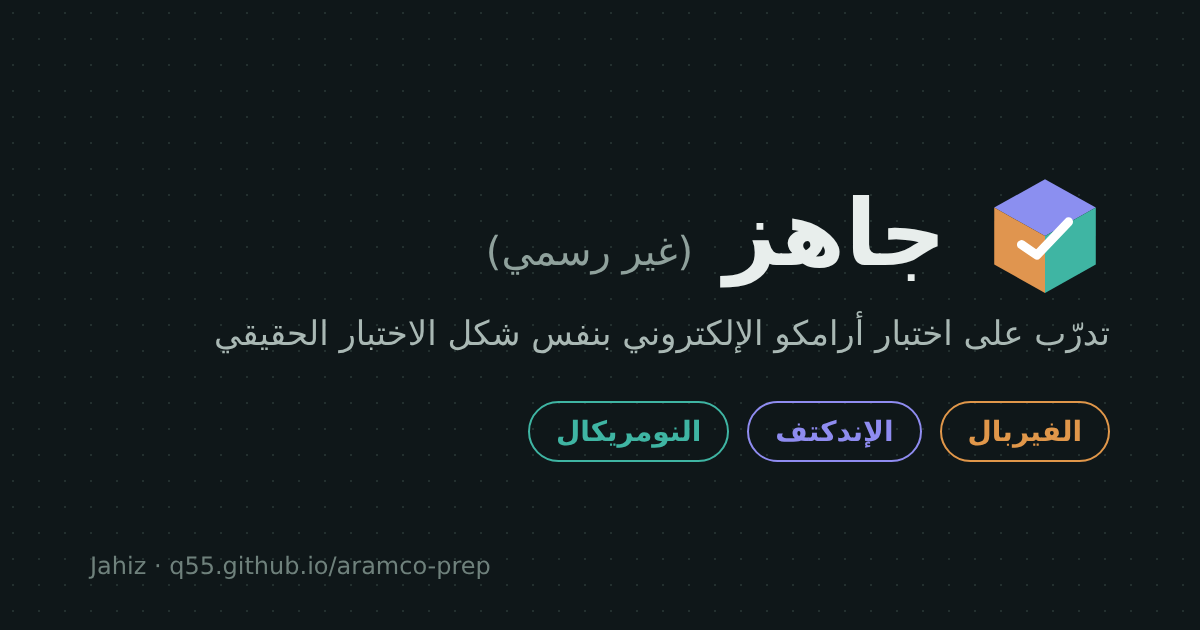
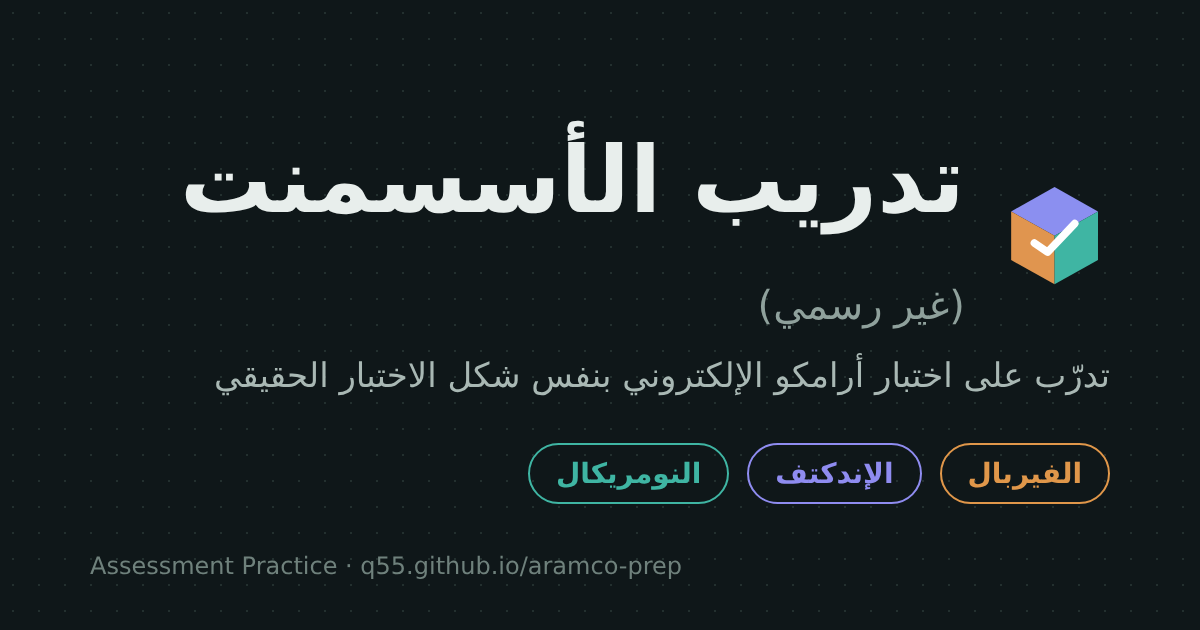
Rename to Assessment Practice; centered hero title
Claude-Session: https://claude.ai/code/session_0176uqSCUaVaCzhfna7AKwtE

diff --git a/index.html b/index.html
@@ -2,11 +2,11 @@
 <html lang="en">
 <head>
 <script src="firebase-config.js"></script>
-<meta name="description" content="تدرّب على اختبار أرامكو الإلكتروني (الفيربال، الإندكتف، النومريكال) بنفس شكل الاختبار الحقيقي. موقع غير رسمي للاستفادة التعليمية."><meta property="og:type" content="website"><meta property="og:url" content="https://q55.github.io/aramco-prep/"><meta property="og:title" content="جاهز | تدريب على اختبار أرامكو (غير رسمي)"><meta property="og:description" content="تدرّب على الاختبار الإلكتروني بنفس شكل الاختبار الحقيقي: الفيربال، الإندكتف، النومريكال."><meta property="og:image" content="https://q55.github.io/aramco-prep/og.png"><meta property="og:image:width" content="1200"><meta property="og:image:height" content="630"><meta name="twitter:card" content="summary_large_image">
+<meta name="description" content="تدرّب على اختبار أرامكو الإلكتروني (الفيربال، الإندكتف، النومريكال) بنفس شكل الاختبار الحقيقي. موقع غير رسمي للاستفادة التعليمية."><meta property="og:type" content="website"><meta property="og:url" content="https://q55.github.io/aramco-prep/"><meta property="og:title" content="تدريب الأسسمنت (غير رسمي)"><meta property="og:description" content="تدرّب على الاختبار الإلكتروني بنفس شكل الاختبار الحقيقي: الفيربال، الإندكتف، النومريكال."><meta property="og:image" content="https://q55.github.io/aramco-prep/og.png"><meta property="og:image:width" content="1200"><meta property="og:image:height" content="630"><meta name="twitter:card" content="summary_large_image">
 <meta charset="utf-8">
 <meta name="viewport" content="width=device-width, initial-scale=1">
-<title>جاهز | تدريب على اختبار أرامكو (غير رسمي)</title>
-<meta name="apple-mobile-web-app-capable" content="yes"><meta name="apple-mobile-web-app-title" content="جاهز"><meta name="theme-color" content="#0e6e64"><link rel="apple-touch-icon" href="icon-180.png"><link rel="icon" href="icon-180.png">
+<title>تدريب الأسسمنت (غير رسمي)</title>
+<meta name="apple-mobile-web-app-capable" content="yes"><meta name="apple-mobile-web-app-title" content="تدريب الأسسمنت"><meta name="theme-color" content="#0e6e64"><link rel="apple-touch-icon" href="icon-180.png"><link rel="icon" href="icon-180.png">
 <link rel="preconnect" href="https://fonts.googleapis.com"><link rel="preconnect" href="https://fonts.gstatic.com" crossorigin>
 <link href="https://fonts.googleapis.com/css2?family=Instrument+Sans:wght@400;500;600&family=IBM+Plex+Sans+Arabic:wght@400;600&display=swap" rel="stylesheet">
 <script>/* Chart.js 4.4.1, MIT */
@@ -433,10 +433,18 @@ body[data-screen="test"] .foot,body[data-screen="end"] .foot,body[data-screen="g
 @keyframes spin{from{transform:rotateX(-28deg) rotateY(-40deg)}to{transform:rotateX(-28deg) rotateY(320deg)}}
 @media(prefers-reduced-motion:reduce){.cube{animation:none}}
 @media(max-width:600px){.hero{grid-template-columns:1fr;justify-items:start}.cubewrap{--s:72px;order:-1;margin:0 0 4px}.cf{font-size:9px;gap:4px;border-radius:5px}.cf .sic{width:24px;height:24px;padding:4px}.hlead{font-size:16px}}
+
+/* centered hero */
+.hero{grid-template-columns:1fr!important;justify-items:center;text-align:center;padding:72px 0 80px!important;margin-bottom:40px!important;gap:28px!important}
+.hero .htext{display:flex;flex-direction:column;align-items:center}
+.hero .cubewrap{order:-1;margin:0!important}
+#guidePg h1.htitle{font-size:clamp(40px,9vw,72px)!important;line-height:1.15;margin:0!important;display:flex;flex-direction:column;align-items:center;gap:10px}
+#guidePg h1.htitle .hun{font-size:clamp(16px,3.4vw,22px);letter-spacing:0}
+@media(max-width:600px){.hero{padding:44px 0 52px!important}.hero .cubewrap{--s:80px;margin:0 auto!important}}
 </style>
 </head>
 <body>
-<header class="top"><button class="brand" onclick="showPage('guidePg')"><svg class="logo" viewBox="0 0 32 32" aria-hidden="true"><path d="M16 2.5 28.5 9.5 16 16.5 3.5 9.5Z" fill="var(--ind)"/><path d="M3.5 9.5 16 16.5V30.5L3.5 23.5Z" fill="var(--ver)"/><path d="M28.5 9.5 16 16.5V30.5L28.5 23.5Z" fill="var(--num)"/><path d="M10.2 18.6 14 21.2 21.8 13" fill="none" stroke="#fff" stroke-width="2.2" stroke-linecap="round" stroke-linejoin="round" opacity=".95"/></svg><span id="testName">Jahiz</span></button><nav class="toplinks" id="topnav"><button onclick="showPage('guidePg')" data-p="guidePg"><svg viewBox="0 0 24 24" aria-hidden="true" fill="none" stroke="currentColor" stroke-width="1.8" stroke-linejoin="round" stroke-linecap="round"><path d="M3 5.5c2.6-1 5.6-1 9 1 3.4-2 6.4-2 9-1v13c-2.6-1-5.6-1-9 1-3.4-2-6.4-2-9-1z"/><path d="M12 6.5v13"/></svg><span data-i18n="Guide">Guide</span></button><button onclick="goHome()" data-p="home"><svg viewBox="0 0 24 24" aria-hidden="true" fill="none" stroke="currentColor" stroke-width="1.8" stroke-linejoin="round" stroke-linecap="round"><path d="M4 20l1.2-4.2L15.8 5.2a2 2 0 0 1 2.9 0l.1.1a2 2 0 0 1 0 2.9L8.2 18.8z"/><path d="M14 7l3 3"/></svg><span data-i18n="Practice">Practice</span></button></nav><div class="qtog"><button id="lgBtn" onclick="toggleLang()">English</button><button id="thBtn" onclick="toggleTheme()" aria-label="Switch to light mode"></button></div></header>
+<header class="top"><button class="brand" onclick="showPage('guidePg')"><svg class="logo" viewBox="0 0 32 32" aria-hidden="true"><path d="M16 2.5 28.5 9.5 16 16.5 3.5 9.5Z" fill="var(--ind)"/><path d="M3.5 9.5 16 16.5V30.5L3.5 23.5Z" fill="var(--ver)"/><path d="M28.5 9.5 16 16.5V30.5L28.5 23.5Z" fill="var(--num)"/><path d="M10.2 18.6 14 21.2 21.8 13" fill="none" stroke="#fff" stroke-width="2.2" stroke-linecap="round" stroke-linejoin="round" opacity=".95"/></svg><span id="testName">Assessment Practice</span></button><nav class="toplinks" id="topnav"><button onclick="showPage('guidePg')" data-p="guidePg"><svg viewBox="0 0 24 24" aria-hidden="true" fill="none" stroke="currentColor" stroke-width="1.8" stroke-linejoin="round" stroke-linecap="round"><path d="M3 5.5c2.6-1 5.6-1 9 1 3.4-2 6.4-2 9-1v13c-2.6-1-5.6-1-9 1-3.4-2-6.4-2-9-1z"/><path d="M12 6.5v13"/></svg><span data-i18n="Guide">Guide</span></button><button onclick="goHome()" data-p="home"><svg viewBox="0 0 24 24" aria-hidden="true" fill="none" stroke="currentColor" stroke-width="1.8" stroke-linejoin="round" stroke-linecap="round"><path d="M4 20l1.2-4.2L15.8 5.2a2 2 0 0 1 2.9 0l.1.1a2 2 0 0 1 0 2.9L8.2 18.8z"/><path d="M14 7l3 3"/></svg><span data-i18n="Practice">Practice</span></button></nav><div class="qtog"><button id="lgBtn" onclick="toggleLang()">English</button><button id="thBtn" onclick="toggleTheme()" aria-label="Switch to light mode"></button></div></header>
 
 <div id="home" class="page wide">
 <div class="intro"><h1 data-i18n="Welcome.">Welcome.</h1><p class="sub" data-i18n="Pick a section and practise in the real test layout. Everything you do is saved.">x</p></div>
@@ -445,7 +453,7 @@ body[data-screen="test"] .foot,body[data-screen="end"] .foot,body[data-screen="g
 <p class="sync"></p>
 </div>
 
-<div id="guidePg" class="page langbox" style="display:none"><svg id="treeSvg" aria-hidden="true"></svg><section class="hero" data-lang="ar"><div class="htext"><h1 class="htitle">جاهز <span class="hun">(غير رسمي)</span></h1><p class="hlead">تدرّب على اختبار أرامكو الإلكتروني بنفس شكل الاختبار الحقيقي: الفيربال، والإندكتف، والنومريكال.</p><p class="hsub">تم عمل الموقع للاستفادة التعليمية.</p></div><div class="cubewrap" aria-hidden="true"><div class="cube"><div class="cf cf-f c-ver"><svg class="sic" viewBox="0 0 24 24" aria-hidden="true" fill="none" stroke="currentColor" stroke-width="1.8" stroke-linejoin="round" stroke-linecap="round"><rect x="5" y="3" width="14" height="18" rx="2"/><path d="M8.5 8h7M8.5 12h7M8.5 16h4"/></svg><span>الفيربال</span></div><div class="cf cf-r c-ind"><svg class="sic" viewBox="0 0 24 24" aria-hidden="true" fill="none" stroke="currentColor" stroke-width="1.8" stroke-linejoin="round" stroke-linecap="round"><rect x="3" y="3" width="7.5" height="7.5" rx="1.2"/><circle cx="17.25" cy="6.75" r="3.75"/><path d="M6.75 13.5l3.75 7h-7.5z"/><rect x="13.5" y="13.5" width="7.5" height="7.5" rx="1.2" stroke-dasharray="2 2"/></svg><span>الإندكتف</span></div><div class="cf cf-t c-num"><svg class="sic" viewBox="0 0 24 24" aria-hidden="true" fill="none" stroke="currentColor" stroke-width="1.8" stroke-linejoin="round" stroke-linecap="round"><path d="M3.5 20h17"/><rect x="5.5" y="12" width="3" height="6" rx=".5"/><rect x="10.5" y="7" width="3" height="11" rx=".5"/><rect x="15.5" y="10" width="3" height="8" rx=".5"/></svg><span>النومريكال</span></div><div class="cf cf-b c-ver"><svg class="sic" viewBox="0 0 24 24" aria-hidden="true" fill="none" stroke="currentColor" stroke-width="1.8" stroke-linejoin="round" stroke-linecap="round"><rect x="5" y="3" width="14" height="18" rx="2"/><path d="M8.5 8h7M8.5 12h7M8.5 16h4"/></svg><span>الفيربال</span></div><div class="cf cf-l c-ind"><svg class="sic" viewBox="0 0 24 24" aria-hidden="true" fill="none" stroke="currentColor" stroke-width="1.8" stroke-linejoin="round" stroke-linecap="round"><rect x="3" y="3" width="7.5" height="7.5" rx="1.2"/><circle cx="17.25" cy="6.75" r="3.75"/><path d="M6.75 13.5l3.75 7h-7.5z"/><rect x="13.5" y="13.5" width="7.5" height="7.5" rx="1.2" stroke-dasharray="2 2"/></svg><span>الإندكتف</span></div><div class="cf cf-u c-num"><svg class="sic" viewBox="0 0 24 24" aria-hidden="true" fill="none" stroke="currentColor" stroke-width="1.8" stroke-linejoin="round" stroke-linecap="round"><path d="M3.5 20h17"/><rect x="5.5" y="12" width="3" height="6" rx=".5"/><rect x="10.5" y="7" width="3" height="11" rx=".5"/><rect x="15.5" y="10" width="3" height="8" rx=".5"/></svg><span>النومريكال</span></div></div><div class="cubeshadow"></div></div></section><section class="hero" data-lang="en" hidden><div class="htext"><h1 class="htitle">Jahiz <span class="hun">(unofficial)</span></h1><p class="hlead">Practise for the Aramco online assessment in the real test layout: Verbal, Inductive and Numerical.</p><p class="hsub">This site was made for educational use.</p></div><div class="cubewrap" aria-hidden="true"><div class="cube"><div class="cf cf-f c-ver"><svg class="sic" viewBox="0 0 24 24" aria-hidden="true" fill="none" stroke="currentColor" stroke-width="1.8" stroke-linejoin="round" stroke-linecap="round"><rect x="5" y="3" width="14" height="18" rx="2"/><path d="M8.5 8h7M8.5 12h7M8.5 16h4"/></svg><span>Verbal</span></div><div class="cf cf-r c-ind"><svg class="sic" viewBox="0 0 24 24" aria-hidden="true" fill="none" stroke="currentColor" stroke-width="1.8" stroke-linejoin="round" stroke-linecap="round"><rect x="3" y="3" width="7.5" height="7.5" rx="1.2"/><circle cx="17.25" cy="6.75" r="3.75"/><path d="M6.75 13.5l3.75 7h-7.5z"/><rect x="13.5" y="13.5" width="7.5" height="7.5" rx="1.2" stroke-dasharray="2 2"/></svg><span>Inductive</span></div><div class="cf cf-t c-num"><svg class="sic" viewBox="0 0 24 24" aria-hidden="true" fill="none" stroke="currentColor" stroke-width="1.8" stroke-linejoin="round" stroke-linecap="round"><path d="M3.5 20h17"/><rect x="5.5" y="12" width="3" height="6" rx=".5"/><rect x="10.5" y="7" width="3" height="11" rx=".5"/><rect x="15.5" y="10" width="3" height="8" rx=".5"/></svg><span>Numerical</span></div><div class="cf cf-b c-ver"><svg class="sic" viewBox="0 0 24 24" aria-hidden="true" fill="none" stroke="currentColor" stroke-width="1.8" stroke-linejoin="round" stroke-linecap="round"><rect x="5" y="3" width="14" height="18" rx="2"/><path d="M8.5 8h7M8.5 12h7M8.5 16h4"/></svg><span>Verbal</span></div><div class="cf cf-l c-ind"><svg class="sic" viewBox="0 0 24 24" aria-hidden="true" fill="none" stroke="currentColor" stroke-width="1.8" stroke-linejoin="round" stroke-linecap="round"><rect x="3" y="3" width="7.5" height="7.5" rx="1.2"/><circle cx="17.25" cy="6.75" r="3.75"/><path d="M6.75 13.5l3.75 7h-7.5z"/><rect x="13.5" y="13.5" width="7.5" height="7.5" rx="1.2" stroke-dasharray="2 2"/></svg><span>Inductive</span></div><div class="cf cf-u c-num"><svg class="sic" viewBox="0 0 24 24" aria-hidden="true" fill="none" stroke="currentColor" stroke-width="1.8" stroke-linejoin="round" stroke-linecap="round"><path d="M3.5 20h17"/><rect x="5.5" y="12" width="3" height="6" rx=".5"/><rect x="10.5" y="7" width="3" height="11" rx=".5"/><rect x="15.5" y="10" width="3" height="8" rx=".5"/></svg><span>Numerical</span></div></div><div class="cubeshadow"></div></div></section><div id="tline"></div><div data-lang="en">
+<div id="guidePg" class="page langbox" style="display:none"><svg id="treeSvg" aria-hidden="true"></svg><section class="hero" data-lang="ar"><div class="htext"><h1 class="htitle">تدريب الأسسمنت <span class="hun">(غير رسمي)</span></h1></div><div class="cubewrap" aria-hidden="true"><div class="cube"><div class="cf cf-f c-ver"><svg class="sic" viewBox="0 0 24 24" aria-hidden="true" fill="none" stroke="currentColor" stroke-width="1.8" stroke-linejoin="round" stroke-linecap="round"><rect x="5" y="3" width="14" height="18" rx="2"/><path d="M8.5 8h7M8.5 12h7M8.5 16h4"/></svg><span>الفيربال</span></div><div class="cf cf-r c-ind"><svg class="sic" viewBox="0 0 24 24" aria-hidden="true" fill="none" stroke="currentColor" stroke-width="1.8" stroke-linejoin="round" stroke-linecap="round"><rect x="3" y="3" width="7.5" height="7.5" rx="1.2"/><circle cx="17.25" cy="6.75" r="3.75"/><path d="M6.75 13.5l3.75 7h-7.5z"/><rect x="13.5" y="13.5" width="7.5" height="7.5" rx="1.2" stroke-dasharray="2 2"/></svg><span>الإندكتف</span></div><div class="cf cf-t c-num"><svg class="sic" viewBox="0 0 24 24" aria-hidden="true" fill="none" stroke="currentColor" stroke-width="1.8" stroke-linejoin="round" stroke-linecap="round"><path d="M3.5 20h17"/><rect x="5.5" y="12" width="3" height="6" rx=".5"/><rect x="10.5" y="7" width="3" height="11" rx=".5"/><rect x="15.5" y="10" width="3" height="8" rx=".5"/></svg><span>النومريكال</span></div><div class="cf cf-b c-ver"><svg class="sic" viewBox="0 0 24 24" aria-hidden="true" fill="none" stroke="currentColor" stroke-width="1.8" stroke-linejoin="round" stroke-linecap="round"><rect x="5" y="3" width="14" height="18" rx="2"/><path d="M8.5 8h7M8.5 12h7M8.5 16h4"/></svg><span>الفيربال</span></div><div class="cf cf-l c-ind"><svg class="sic" viewBox="0 0 24 24" aria-hidden="true" fill="none" stroke="currentColor" stroke-width="1.8" stroke-linejoin="round" stroke-linecap="round"><rect x="3" y="3" width="7.5" height="7.5" rx="1.2"/><circle cx="17.25" cy="6.75" r="3.75"/><path d="M6.75 13.5l3.75 7h-7.5z"/><rect x="13.5" y="13.5" width="7.5" height="7.5" rx="1.2" stroke-dasharray="2 2"/></svg><span>الإندكتف</span></div><div class="cf cf-u c-num"><svg class="sic" viewBox="0 0 24 24" aria-hidden="true" fill="none" stroke="currentColor" stroke-width="1.8" stroke-linejoin="round" stroke-linecap="round"><path d="M3.5 20h17"/><rect x="5.5" y="12" width="3" height="6" rx=".5"/><rect x="10.5" y="7" width="3" height="11" rx=".5"/><rect x="15.5" y="10" width="3" height="8" rx=".5"/></svg><span>النومريكال</span></div></div><div class="cubeshadow"></div></div></section><section class="hero" data-lang="en" hidden><div class="htext"><h1 class="htitle">Assessment Practice <span class="hun">(unofficial)</span></h1></div><div class="cubewrap" aria-hidden="true"><div class="cube"><div class="cf cf-f c-ver"><svg class="sic" viewBox="0 0 24 24" aria-hidden="true" fill="none" stroke="currentColor" stroke-width="1.8" stroke-linejoin="round" stroke-linecap="round"><rect x="5" y="3" width="14" height="18" rx="2"/><path d="M8.5 8h7M8.5 12h7M8.5 16h4"/></svg><span>Verbal</span></div><div class="cf cf-r c-ind"><svg class="sic" viewBox="0 0 24 24" aria-hidden="true" fill="none" stroke="currentColor" stroke-width="1.8" stroke-linejoin="round" stroke-linecap="round"><rect x="3" y="3" width="7.5" height="7.5" rx="1.2"/><circle cx="17.25" cy="6.75" r="3.75"/><path d="M6.75 13.5l3.75 7h-7.5z"/><rect x="13.5" y="13.5" width="7.5" height="7.5" rx="1.2" stroke-dasharray="2 2"/></svg><span>Inductive</span></div><div class="cf cf-t c-num"><svg class="sic" viewBox="0 0 24 24" aria-hidden="true" fill="none" stroke="currentColor" stroke-width="1.8" stroke-linejoin="round" stroke-linecap="round"><path d="M3.5 20h17"/><rect x="5.5" y="12" width="3" height="6" rx=".5"/><rect x="10.5" y="7" width="3" height="11" rx=".5"/><rect x="15.5" y="10" width="3" height="8" rx=".5"/></svg><span>Numerical</span></div><div class="cf cf-b c-ver"><svg class="sic" viewBox="0 0 24 24" aria-hidden="true" fill="none" stroke="currentColor" stroke-width="1.8" stroke-linejoin="round" stroke-linecap="round"><rect x="5" y="3" width="14" height="18" rx="2"/><path d="M8.5 8h7M8.5 12h7M8.5 16h4"/></svg><span>Verbal</span></div><div class="cf cf-l c-ind"><svg class="sic" viewBox="0 0 24 24" aria-hidden="true" fill="none" stroke="currentColor" stroke-width="1.8" stroke-linejoin="round" stroke-linecap="round"><rect x="3" y="3" width="7.5" height="7.5" rx="1.2"/><circle cx="17.25" cy="6.75" r="3.75"/><path d="M6.75 13.5l3.75 7h-7.5z"/><rect x="13.5" y="13.5" width="7.5" height="7.5" rx="1.2" stroke-dasharray="2 2"/></svg><span>Inductive</span></div><div class="cf cf-u c-num"><svg class="sic" viewBox="0 0 24 24" aria-hidden="true" fill="none" stroke="currentColor" stroke-width="1.8" stroke-linejoin="round" stroke-linecap="round"><path d="M3.5 20h17"/><rect x="5.5" y="12" width="3" height="6" rx=".5"/><rect x="10.5" y="7" width="3" height="11" rx=".5"/><rect x="15.5" y="10" width="3" height="8" rx=".5"/></svg><span>Numerical</span></div></div><div class="cubeshadow"></div></div></section><div id="tline"></div><div data-lang="en">
 
 <div class="gsecs"><section class="gsec g-ver"><div class="ghead"><h2><svg class="sic" viewBox="0 0 24 24" aria-hidden="true" fill="none" stroke="currentColor" stroke-width="1.8" stroke-linejoin="round" stroke-linecap="round"><rect x="5" y="3" width="14" height="18" rx="2"/><path d="M8.5 8h7M8.5 12h7M8.5 16h4"/></svg>Verbal</h2><span class="gmeta">30 questions · 17 min</span></div><p class="gwhat">You read a short passage, then judge each statement as True, False or Cannot Say. Use only what the passage says, not what you know.</p><ul><li>True: the passage says it or clearly implies it.</li><li>False: the passage contradicts it.</li><li>Cannot Say: the passage does not cover it.</li><li>Strong words like only, all, most and main need exact support.</li></ul></section><section class="gsec g-ind"><div class="ghead"><h2><svg class="sic" viewBox="0 0 24 24" aria-hidden="true" fill="none" stroke="currentColor" stroke-width="1.8" stroke-linejoin="round" stroke-linecap="round"><rect x="3" y="3" width="7.5" height="7.5" rx="1.2"/><circle cx="17.25" cy="6.75" r="3.75"/><path d="M6.75 13.5l3.75 7h-7.5z"/><rect x="13.5" y="13.5" width="7.5" height="7.5" rx="1.2" stroke-dasharray="2 2"/></svg>Inductive</h2><span class="gmeta">24 questions · 24 min</span></div><p class="gwhat">You see five diagrams that change by a hidden rule. Find the rule and pick the diagram that comes next, A to E.</p><ul><li>Follow one feature at a time: position, rotation, colour, count.</li><li>Check for patterns that alternate every second box.</li><li>Rule out options that break any pattern.</li></ul></section><div class="gcol"><section class="gsec g-num"><div class="ghead"><h2><svg class="sic" viewBox="0 0 24 24" aria-hidden="true" fill="none" stroke="currentColor" stroke-width="1.8" stroke-linejoin="round" stroke-linecap="round"><path d="M3.5 20h17"/><rect x="5.5" y="12" width="3" height="6" rx=".5"/><rect x="10.5" y="7" width="3" height="11" rx=".5"/><rect x="15.5" y="10" width="3" height="8" rx=".5"/></svg>Numerical</h2><span class="gmeta">17 questions · 18 min</span></div><p class="gwhat">You get a table or chart and answer maths questions about it: percentages, change between years, totals and rates.</p><ul><li>% change = (new − old) ÷ old.</li><li>Old value = new ÷ (1 ± %).</li><li>Turn pie percentages into real numbers before comparing years.</li><li>Check units before calculating.</li></ul></section><div class="figslot"></div></div></div><h2>Good to know</h2><ul><li>Real times are shorter than the email says. The email also counts login and camera setup.</li><li>Sections are separate. Do them at different times if you like.</li><li>The test closes at 11:59 pm on your deadline day.</li><li>Wrong answers usually cost nothing. Never leave a blank.</li><li>Postponing or technical problems: assessment@aramco.com</li><li><a href="https://youtu.be/BlKqEKPqtd0">Video: how to log in and do the practice first</a></li></ul>
 </div><div data-lang="ar" hidden>
@@ -485,7 +493,7 @@ body[data-screen="test"] .foot,body[data-screen="end"] .foot,body[data-screen="g
 
 <footer class="foot"><p data-lang="ar" hidden>موقع غير رسمي للاستفادة التعليمية، وغير تابع لأرامكو أو SHL.</p><p data-lang="en">An unofficial site for educational use. Not affiliated with Saudi Aramco or SHL.</p></footer>
 <script>
-const AR={"Add a note": "أضف ملاحظة", "Note saved": "تم الحفظ", "Why was it wrong? What to remember next time?": "لماذا كانت خاطئة؟ وماذا تتذكر في المرة القادمة؟", "Anything to remember about this question?": "شيء تريد تذكّره عن هذا السؤال؟", "Keyboard shortcuts": "اختصارات لوحة المفاتيح", "Press ? or Esc to close": "اضغط ? أو Esc للإغلاق", "Sign in to Claude to save your progress.": "سجّل دخولك في Claude لحفظ تقدمك.", "Most repeated passages": "أكثر القطع تكراراً", "Maths questions on tables and charts": "أسئلة حسابية على جداول ورسوم", "Read a passage, then True, False or Cannot Say": "اقرأ قطعة، وبعدها True أو False أو Cannot Say", "Find the rule, pick the next diagram": "اكتشف القاعدة واختر الشكل التالي", "Real test pace": "بسرعة الاختبار", "No timer": "بدون وقت", "Timer": "الوقت", "Change time": "تغيير الوقت", "Time ran out.": "انتهى الوقت.", "Time used": "الوقت المستخدم", "With my notes": "عليها ملاحظات", "My note": "ملاحظتي", "Why did I get it wrong? What should I remember next time?": "لماذا أخطأت؟ وماذا يجب أن أتذكر في المرة القادمة؟", "Keyboard: 1–5 to answer, Enter for next, ← → to move, S to save.": "لوحة المفاتيح: 1–5 للإجابة، Enter للتالي، ← → للتنقل، S للحفظ.", "Like the real test: 17 questions in 18 minutes, one timer for the whole section. Picked at random from the 30 most likely questions.": "مثل الاختبار الحقيقي: 17 سؤالاً في 18 دقيقة، بعدّاد واحد للقسم كله. الأسئلة عشوائية من أكثر 30 سؤالاً متوقعاً.", "Like the real test: 30 statements in 17 minutes, one timer for the whole section. From the most repeated passages.": "مثل الاختبار الحقيقي: 30 عبارة في 17 دقيقة، بعدّاد واحد للقسم كله. من أكثر القطع تكراراً.", "Like the real test: 24 questions in 24 minutes, one timer for the whole section. 16 from real test screenshots and 8 from the rest.": "مثل الاختبار الحقيقي: 24 سؤالاً في 24 دقيقة، بعدّاد واحد للقسم كله. 16 من صور الاختبار الحقيقي و8 من البقية.", "Guide": "الدليل", "Practice": "التدريب", "Stats": "الإحصائيات", "Next steps": "الخطوات القادمة", "Jahiz": "جاهز", "Welcome.": "أهلاً بك.", "Pick a section and practise in the real test layout. Everything you do is saved.": "اختر قسماً وتدرّب بنفس شكل الاختبار الحقيقي. كل ما تفعله يُحفظ تلقائياً.", "Numerical": "النومريكال", "Verbal": "الفيربال", "Inductive": "الإندكتف", "Tables, charts and percentages": "جداول ورسوم ونسب مئوية", "True, False or Cannot Say": "True أو False أو Cannot Say", "Find the next diagram": "استنتج الشكل التالي", "tried": "محاولة", "correct": "صحيحة", "saved": "محفوظ", "Open": "فتح", "Continue": "أكمل", "question": "السؤال", "of": "من", "Review": "راجع", "due for review": "للمراجعة", "Saved on this device": "محفوظ على هذا الجهاز", "Saved to your account and this device": "محفوظ في حسابك وعلى هذا الجهاز", "Saved on this device (account sync failed, will retry)": "محفوظ على هذا الجهاز (فشلت مزامنة الحساب، ستُعاد المحاولة)", "Saved on this device (account not reachable yet)": "محفوظ على هذا الجهاز (الحساب غير متاح حالياً)", "← All sections": "→ كل الأقسام", "practice": "تدريب", "Questions": "الأسئلة", "More sets": "مجموعات أخرى", "Timer per question": "الوقت لكل سؤال", "Auto-next when time runs out": "انتقل تلقائياً عند انتهاء الوقت", "Start practice": "ابدأ التدريب", "Exam mode": "وضع الاختبار", "Study slides": "شرائح المذاكرة", "Saved": "المحفوظة", "Wrong before": "أخطأت فيها", "Not tried yet": "لم تُحل بعد", "Due for review": "للمراجعة", "Most likely 30": "الأكثر احتمالاً (30)", "Most repeated 30 passages": "أكثر 30 قطعة تكراراً", "Corrected & debatable (20)": "المصححة والمختلف عليها (20)", "Real test screenshots (40)": "صور الاختبار الحقيقي (40)", "Off": "إيقاف", "2 min": "دقيقتان", "s": "ث", "No saved questions in this section yet.": "لا توجد أسئلة محفوظة في هذا القسم بعد.", "No questions in that set yet.": "لا توجد أسئلة في هذه المجموعة بعد.", "Continue where you stopped": "أكمل من حيث توقفت", "Exam": "اختبار", "answered": "تمت الإجابة", "Discard": "تجاهل", "— study slides from your files": "— شرائح المذاكرة", "← Back": "→ رجوع", "Time remaining": "الوقت المتبقي", "Pause": "إيقاف مؤقت", "Resume": "استئناف", "Restart": "إعادة", "Save & exit": "حفظ وخروج", "not answered": "بدون إجابة", "wrong": "خاطئة", "★ saved": "★ محفوظ", "☆ Save for later": "☆ احفظ للمراجعة", "★ Saved": "★ محفوظ", "End & score": "إنهاء وعرض النتيجة", "Check": "تحقق", "Next": "التالي", "Finish": "إنهاء", "Choose an answer first.": "اختر إجابة أولاً.", "Time's up — move on in the real test": "انتهى الوقت — في الاختبار الحقيقي انتقل للسؤال التالي", "Correct.": "إجابة صحيحة.", "Answer": "الإجابة", "Explanation below ↓": "الشرح بالأسفل ↓", "Explanation slide from your file (notes as written there). Tap the picture to enlarge.": "شريحة الشرح من ملفك (الملاحظات كما هي). اضغط على الصورة للتكبير.", "Tap anywhere to close · pinch or scroll to zoom": "اضغط في أي مكان للإغلاق · كبّر بالأصابع أو بالتمرير", "Redo the": "أعد", "wrong ones": "الخاطئة", "Save all wrong for later": "احفظ كل الخاطئة للمراجعة", "Back to": "رجوع إلى", "Home": "الرئيسية", "Question": "السؤال", "Yours": "إجابتك", "Correct": "الصحيحة", "Solution": "الحل", "Show explanation slide": "اعرض شريحة الشرح", "Saved.": "تم الحفظ.", "Accuracy and speed from your practice. Topics with your lowest scores come first.": "دقتك وسرعتك من التدريب. المواضيع الأضعف أولاً.", "correct of": "صحيحة من", "No timing yet": "لا يوجد توقيت بعد", "Avg": "المتوسط", "per question": "للسؤال", "target": "المطلوب", "slow": "بطيء", "Weakest topics": "أضعف المواضيع", "Topic": "الموضوع", "Section": "القسم", "Redo wrong": "أعد الخاطئة", "Answer at least two questions in a topic to see it here.": "أجب عن سؤالين على الأقل في أي موضوع ليظهر هنا.", "Passage": "القطعة", "Real test screenshots": "صور الاختبار الحقيقي", "File questions": "أسئلة الملف", "Online assessment": "الاختبار الإلكتروني", "Verification": "التحقق", "Interview": "المقابلة", "Medical exam": "الفحص الطبي", "Job offer": "العرض الوظيفي", "Not yet": "لم تبدأ", "Waiting": "بالانتظار", "Done": "تمت", "Date": "التاريخ", "Notes": "ملاحظات", "Emails, documents asked for, names…": "رسائل البريد، المستندات المطلوبة، الأسماء…", "Settings": "الإعدادات", "Appearance": "المظهر", "Match device": "حسب الجهاز", "Light": "فاتح", "Dark": "داكن", "Language": "اللغة", "Question screens keep the light SHL look so practice matches the real test.": "شاشات الأسئلة تبقى بالشكل الفاتح مثل الاختبار الحقيقي.", "Add to your Home Screen": "أضفه إلى الشاشة الرئيسية", "Open this page in Safari on your iPhone.": "افتح هذه الصفحة في Safari على الآيفون.", "Tap the Share button.": "اضغط زر المشاركة.", "Tap Add to Home Screen, then Add.": "اختر «إضافة إلى الشاشة الرئيسية» ثم «إضافة».", "It opens like an app. Your progress stays synced through your Claude account.": "سيفتح مثل التطبيق، ويبقى تقدمك متزامناً عبر حسابك.", "questions": "أسئلة", "Practice mode": "تدريب", "30 numerical questions most likely to come up (from real test screenshots in your file)": "30 سؤال نومريكال الأكثر احتمالاً (من صور الاختبار الحقيقي في ملفك)", "30 statements picked at random from the 30 most repeated passages": "30 عبارة عشوائية من أكثر 30 قطعة تكراراً", "24 questions: 16 from real test screenshots + 8 from the rest, random order": "24 سؤالاً: 16 من صور الاختبار الحقيقي و8 من البقية بترتيب عشوائي", "question(s) not answered. Tap End & score again to finish anyway.": "سؤال بدون إجابة. اضغط «إنهاء وعرض النتيجة» مرة أخرى للإنهاء.", "Corrected: your file's key says": "تصحيح: إجابة ملفك هي", "which is wrong for the reason above.": "وهي خاطئة للسبب أعلاه.", "Debatable: your file's key says": "مختلف عليها: إجابة ملفك هي", "I scored it as": "واحتسبتها", "for the reason above.": "للسبب أعلاه.", "All": "الكل", "Passages": "القطع", "Slides": "الشرائح", "Switch to light mode": "الوضع الفاتح", "Where you are": "أين وصلت", "You are here": "أنت هنا", "Application": "التقديم", "More": "المزيد", "Less": "أقل", "My formulas": "القوانين", "Part, total, percent": "الجزء والكل والنسبة", "Percentage change": "نسبة التغير", "Total price, unit price, number": "السعر الكلي وسعر الوحدة والعدد", "Cost per barrel": "تكلفة البرميل", "Rate per mile": "المعدل لكل ميل", "Gallons used": "عدد الجالونات", "Turnover from a ratio": "حجم المبيعات من النسبة", "Switch to dark mode": "الوضع الداكن"};
+const AR={"Add a note": "أضف ملاحظة", "Note saved": "تم الحفظ", "Why was it wrong? What to remember next time?": "لماذا كانت خاطئة؟ وماذا تتذكر في المرة القادمة؟", "Anything to remember about this question?": "شيء تريد تذكّره عن هذا السؤال؟", "Keyboard shortcuts": "اختصارات لوحة المفاتيح", "Press ? or Esc to close": "اضغط ? أو Esc للإغلاق", "Sign in to Claude to save your progress.": "سجّل دخولك في Claude لحفظ تقدمك.", "Most repeated passages": "أكثر القطع تكراراً", "Maths questions on tables and charts": "أسئلة حسابية على جداول ورسوم", "Read a passage, then True, False or Cannot Say": "اقرأ قطعة، وبعدها True أو False أو Cannot Say", "Find the rule, pick the next diagram": "اكتشف القاعدة واختر الشكل التالي", "Real test pace": "بسرعة الاختبار", "No timer": "بدون وقت", "Timer": "الوقت", "Change time": "تغيير الوقت", "Time ran out.": "انتهى الوقت.", "Time used": "الوقت المستخدم", "With my notes": "عليها ملاحظات", "My note": "ملاحظتي", "Why did I get it wrong? What should I remember next time?": "لماذا أخطأت؟ وماذا يجب أن أتذكر في المرة القادمة؟", "Keyboard: 1–5 to answer, Enter for next, ← → to move, S to save.": "لوحة المفاتيح: 1–5 للإجابة، Enter للتالي، ← → للتنقل، S للحفظ.", "Like the real test: 17 questions in 18 minutes, one timer for the whole section. Picked at random from the 30 most likely questions.": "مثل الاختبار الحقيقي: 17 سؤالاً في 18 دقيقة، بعدّاد واحد للقسم كله. الأسئلة عشوائية من أكثر 30 سؤالاً متوقعاً.", "Like the real test: 30 statements in 17 minutes, one timer for the whole section. From the most repeated passages.": "مثل الاختبار الحقيقي: 30 عبارة في 17 دقيقة، بعدّاد واحد للقسم كله. من أكثر القطع تكراراً.", "Like the real test: 24 questions in 24 minutes, one timer for the whole section. 16 from real test screenshots and 8 from the rest.": "مثل الاختبار الحقيقي: 24 سؤالاً في 24 دقيقة، بعدّاد واحد للقسم كله. 16 من صور الاختبار الحقيقي و8 من البقية.", "Guide": "الدليل", "Practice": "التدريب", "Stats": "الإحصائيات", "Next steps": "الخطوات القادمة", "Assessment Practice": "تدريب الأسسمنت", "Welcome.": "أهلاً بك.", "Pick a section and practise in the real test layout. Everything you do is saved.": "اختر قسماً وتدرّب بنفس شكل الاختبار الحقيقي. كل ما تفعله يُحفظ تلقائياً.", "Numerical": "النومريكال", "Verbal": "الفيربال", "Inductive": "الإندكتف", "Tables, charts and percentages": "جداول ورسوم ونسب مئوية", "True, False or Cannot Say": "True أو False أو Cannot Say", "Find the next diagram": "استنتج الشكل التالي", "tried": "محاولة", "correct": "صحيحة", "saved": "محفوظ", "Open": "فتح", "Continue": "أكمل", "question": "السؤال", "of": "من", "Review": "راجع", "due for review": "للمراجعة", "Saved on this device": "محفوظ على هذا الجهاز", "Saved to your account and this device": "محفوظ في حسابك وعلى هذا الجهاز", "Saved on this device (account sync failed, will retry)": "محفوظ على هذا الجهاز (فشلت مزامنة الحساب، ستُعاد المحاولة)", "Saved on this device (account not reachable yet)": "محفوظ على هذا الجهاز (الحساب غير متاح حالياً)", "← All sections": "→ كل الأقسام", "practice": "تدريب", "Questions": "الأسئلة", "More sets": "مجموعات أخرى", "Timer per question": "الوقت لكل سؤال", "Auto-next when time runs out": "انتقل تلقائياً عند انتهاء الوقت", "Start practice": "ابدأ التدريب", "Exam mode": "وضع الاختبار", "Study slides": "شرائح المذاكرة", "Saved": "المحفوظة", "Wrong before": "أخطأت فيها", "Not tried yet": "لم تُحل بعد", "Due for review": "للمراجعة", "Most likely 30": "الأكثر احتمالاً (30)", "Most repeated 30 passages": "أكثر 30 قطعة تكراراً", "Corrected & debatable (20)": "المصححة والمختلف عليها (20)", "Real test screenshots (40)": "صور الاختبار الحقيقي (40)", "Off": "إيقاف", "2 min": "دقيقتان", "s": "ث", "No saved questions in this section yet.": "لا توجد أسئلة محفوظة في هذا القسم بعد.", "No questions in that set yet.": "لا توجد أسئلة في هذه المجموعة بعد.", "Continue where you stopped": "أكمل من حيث توقفت", "Exam": "اختبار", "answered": "تمت الإجابة", "Discard": "تجاهل", "— study slides from your files": "— شرائح المذاكرة", "← Back": "→ رجوع", "Time remaining": "الوقت المتبقي", "Pause": "إيقاف مؤقت", "Resume": "استئناف", "Restart": "إعادة", "Save & exit": "حفظ وخروج", "not answered": "بدون إجابة", "wrong": "خاطئة", "★ saved": "★ محفوظ", "☆ Save for later": "☆ احفظ للمراجعة", "★ Saved": "★ محفوظ", "End & score": "إنهاء وعرض النتيجة", "Check": "تحقق", "Next": "التالي", "Finish": "إنهاء", "Choose an answer first.": "اختر إجابة أولاً.", "Time's up — move on in the real test": "انتهى الوقت — في الاختبار الحقيقي انتقل للسؤال التالي", "Correct.": "إجابة صحيحة.", "Answer": "الإجابة", "Explanation below ↓": "الشرح بالأسفل ↓", "Explanation slide from your file (notes as written there). Tap the picture to enlarge.": "شريحة الشرح من ملفك (الملاحظات كما هي). اضغط على الصورة للتكبير.", "Tap anywhere to close · pinch or scroll to zoom": "اضغط في أي مكان للإغلاق · كبّر بالأصابع أو بالتمرير", "Redo the": "أعد", "wrong ones": "الخاطئة", "Save all wrong for later": "احفظ كل الخاطئة للمراجعة", "Back to": "رجوع إلى", "Home": "الرئيسية", "Question": "السؤال", "Yours": "إجابتك", "Correct": "الصحيحة", "Solution": "الحل", "Show explanation slide": "اعرض شريحة الشرح", "Saved.": "تم الحفظ.", "Accuracy and speed from your practice. Topics with your lowest scores come first.": "دقتك وسرعتك من التدريب. المواضيع الأضعف أولاً.", "correct of": "صحيحة من", "No timing yet": "لا يوجد توقيت بعد", "Avg": "المتوسط", "per question": "للسؤال", "target": "المطلوب", "slow": "بطيء", "Weakest topics": "أضعف المواضيع", "Topic": "الموضوع", "Section": "القسم", "Redo wrong": "أعد الخاطئة", "Answer at least two questions in a topic to see it here.": "أجب عن سؤالين على الأقل في أي موضوع ليظهر هنا.", "Passage": "القطعة", "Real test screenshots": "صور الاختبار الحقيقي", "File questions": "أسئلة الملف", "Online assessment": "الاختبار الإلكتروني", "Verification": "التحقق", "Interview": "المقابلة", "Medical exam": "الفحص الطبي", "Job offer": "العرض الوظيفي", "Not yet": "لم تبدأ", "Waiting": "بالانتظار", "Done": "تمت", "Date": "التاريخ", "Notes": "ملاحظات", "Emails, documents asked for, names…": "رسائل البريد، المستندات المطلوبة، الأسماء…", "Settings": "الإعدادات", "Appearance": "المظهر", "Match device": "حسب الجهاز", "Light": "فاتح", "Dark": "داكن", "Language": "اللغة", "Question screens keep the light SHL look so practice matches the real test.": "شاشات الأسئلة تبقى بالشكل الفاتح مثل الاختبار الحقيقي.", "Add to your Home Screen": "أضفه إلى الشاشة الرئيسية", "Open this page in Safari on your iPhone.": "افتح هذه الصفحة في Safari على الآيفون.", "Tap the Share button.": "اضغط زر المشاركة.", "Tap Add to Home Screen, then Add.": "اختر «إضافة إلى الشاشة الرئيسية» ثم «إضافة».", "It opens like an app. Your progress stays synced through your Claude account.": "سيفتح مثل التطبيق، ويبقى تقدمك متزامناً عبر حسابك.", "questions": "أسئلة", "Practice mode": "تدريب", "30 numerical questions most likely to come up (from real test screenshots in your file)": "30 سؤال نومريكال الأكثر احتمالاً (من صور الاختبار الحقيقي في ملفك)", "30 statements picked at random from the 30 most repeated passages": "30 عبارة عشوائية من أكثر 30 قطعة تكراراً", "24 questions: 16 from real test screenshots + 8 from the rest, random order": "24 سؤالاً: 16 من صور الاختبار الحقيقي و8 من البقية بترتيب عشوائي", "question(s) not answered. Tap End & score again to finish anyway.": "سؤال بدون إجابة. اضغط «إنهاء وعرض النتيجة» مرة أخرى للإنهاء.", "Corrected: your file's key says": "تصحيح: إجابة ملفك هي", "which is wrong for the reason above.": "وهي خاطئة للسبب أعلاه.", "Debatable: your file's key says": "مختلف عليها: إجابة ملفك هي", "I scored it as": "واحتسبتها", "for the reason above.": "للسبب أعلاه.", "All": "الكل", "Passages": "القطع", "Slides": "الشرائح", "Switch to light mode": "الوضع الفاتح", "Where you are": "أين وصلت", "You are here": "أنت هنا", "Application": "التقديم", "More": "المزيد", "Less": "أقل", "My formulas": "القوانين", "Part, total, percent": "الجزء والكل والنسبة", "Percentage change": "نسبة التغير", "Total price, unit price, number": "السعر الكلي وسعر الوحدة والعدد", "Cost per barrel": "تكلفة البرميل", "Rate per mile": "المعدل لكل ميل", "Gallons used": "عدد الجالونات", "Turnover from a ratio": "حجم المبيعات من النسبة", "Switch to dark mode": "الوضع الداكن"};
 function LANG(){try{return (STATE&&STATE.prefs&&STATE.prefs.lang)||'ar'}catch(e){return 'ar'}}
 function t(k){return LANG()==='ar'&&AR[k]!==undefined?AR[k]:k}
 function N(k){return t(SECT[k].name)}
@@ -790,7 +798,7 @@ function showPage(id){stopTimer();showOnly(id);}
 
 function statsFor(s){const H=STATE.hist[s]||{},v=Object.values(H);return{tried:v.length,ok:v.filter(x=>x===1).length,total:BANK[s].length,saved:(STATE.saved[s]||[]).length};}
 function refreshHome(){
- $('testName').textContent=t('Jahiz');
+ $('testName').textContent=t('Assessment Practice');
  const names={num:N('num'),ver:N('ver'),ind:N('ind')};
  let last=null;['num','ver','ind'].forEach(s=>{const p=STATE.prog[s];if(p&&p.ids&&p.ids.length&&(!last||(p.t||0)>(last.p.t||0)))last={s,p};});
  $('resumeBox').innerHTML=last?`<div class="resume"><p><b>${t('Continue')} ${names[last.s]}</b>${LANG()==='ar'?'، ':', '}${t('question')} ${last.p.i+1} ${t('of')} ${last.p.ids.length}</p><button class="btnp" onclick="SEC='${last.s}';resume()">${t('Continue')}</button></div>`:'';
@@ -964,8 +972,8 @@ function renderTL(){const el=$('tline');if(!el)return;const c=tlCur();
 function curTheme(){const th=STATE.prefs.theme||'dark';return th==='auto'?(matchMedia('(prefers-color-scheme: dark)').matches?'dark':'light'):th;}
 function toggleTheme(){STATE.prefs.theme=curTheme()==='dark'?'light':'dark';persist();applyPrefs();}
 function toggleLang(){STATE.prefs.lang=LANG()==='ar'?'en':'ar';persist();applyPrefs();rerenderAll();}
-function setDocTitle(){document.title=LANG()==='ar'?'جاهز | تدريب على اختبار أرامكو (غير رسمي)':'Jahiz | Aramco assessment practice (unofficial)';}
-function rerenderAll(){const sc=document.body.dataset.screen;setDocTitle();renderTL();queueTree();renderFigs();refreshHome();if(sc==='menu')drawMenu();if(sc==='test'){paintSave();paintTimer();restartTimer();$('next').textContent=i===list.length-1?t('Finish'):t('Next');$('testName').textContent=LANG()==='ar'?N(SEC):N(SEC)+' Reasoning';}if(sc==='menu'){$('mTitle').textContent=LANG()==='ar'?t('practice')+' '+N(SEC):N(SEC)+' practice';}if(sc!=='test')$('testName').textContent=t('Jahiz');paintSync();}
+function setDocTitle(){document.title=LANG()==='ar'?'تدريب الأسسمنت (غير رسمي)':'Assessment Practice (unofficial)';}
+function rerenderAll(){const sc=document.body.dataset.screen;setDocTitle();renderTL();queueTree();renderFigs();refreshHome();if(sc==='menu')drawMenu();if(sc==='test'){paintSave();paintTimer();restartTimer();$('next').textContent=i===list.length-1?t('Finish'):t('Next');$('testName').textContent=LANG()==='ar'?N(SEC):N(SEC)+' Reasoning';}if(sc==='menu'){$('mTitle').textContent=LANG()==='ar'?t('practice')+' '+N(SEC):N(SEC)+' practice';}if(sc!=='test')$('testName').textContent=t('Assessment Practice');paintSync();}
 function applyPrefs(){const p=STATE.prefs;const th=p.theme||'dark';document.documentElement.dataset.theme=curTheme();
  const L=LANG();document.documentElement.lang=L;document.documentElement.dir=L==='ar'?'rtl':'ltr';
  document.querySelectorAll('[data-lang]').forEach(e=>e.hidden=e.dataset.lang!==L);
@@ -979,7 +987,7 @@ function applyPrefs(){const p=STATE.prefs;const th=p.theme||'dark';document.docu
 matchMedia('(prefers-color-scheme: dark)').addEventListener('change',applyPrefs);
 
 const _showOnly=showOnly;
-showOnly=function(id){if(id!=='test')$('testName').textContent=t('Jahiz');_showOnly(id);if(id==='guidePg'){renderTL();queueTree();}};
+showOnly=function(id){if(id!=='test')$('testName').textContent=t('Assessment Practice');_showOnly(id);if(id==='guidePg'){renderTL();queueTree();}};
 applyPrefs();
 
 
